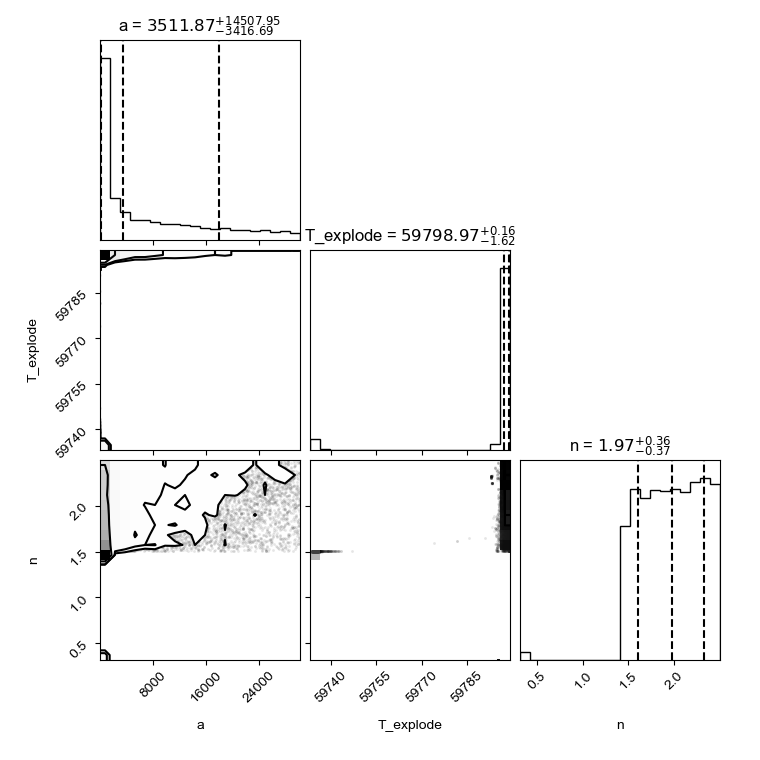
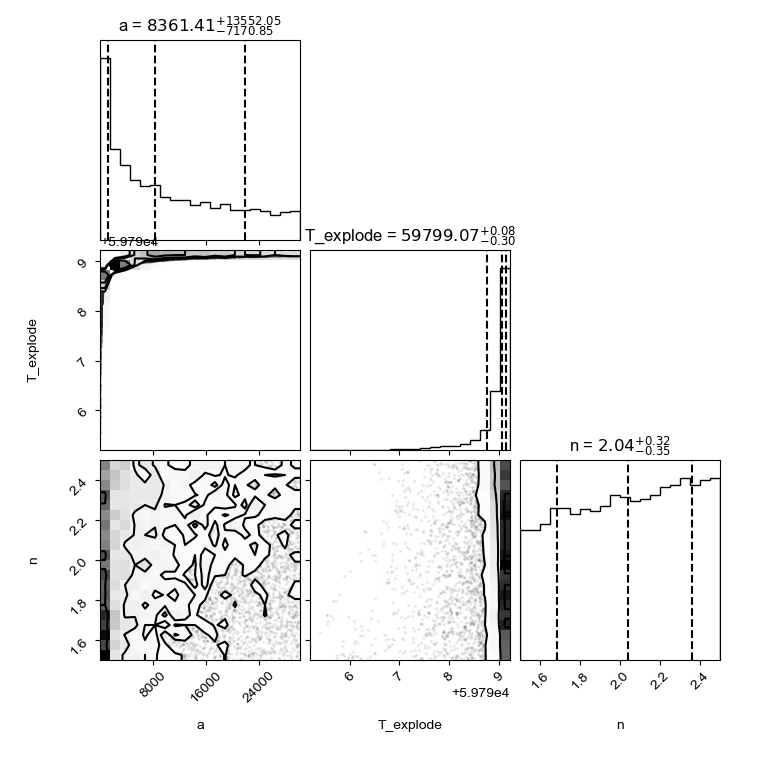
emergency

diff --git a/SNIPER.py b/SNIPER.py
@@ -48,17 +48,17 @@ plt.rcParams["font.family"] = "Arial"
 config_cleaned_lc_directory = "/Users/thomasmoore/Desktop/SNIPER_DEV/ATLAS_TDEs/"
 MJD_minus = 800
 MJD_plus = 800
-nwalkers_bazin = 100
-nsteps_bazin = 10000
+nwalkers_bazin = 200
+nsteps_bazin = int(1e4)
 
-nwalkers_fireball = 100
-nsteps_fireball = 30000
+nwalkers_fireball = 200
+nsteps_fireball = int(1e4)
 
 progress = True
 plot = True
 
-final_run_walker_multiplier = 2
-final_run_step_multiplier = 2
+final_run_walker_multiplier = 1
+final_run_step_multiplier = 1
 
 
 parser = argparse.ArgumentParser()
@@ -106,9 +106,6 @@ if os.path.isdir(output_dir + "/combined_output/") == False:
 
 IAU_list = pd.read_csv(args.file, header=None)
 IAU_list.columns = ["IAU_NAME", "t_guess"]
-
-print(IAU_list.t_guess)
-
 
 global x_global, y_global, y_err_global
 
@@ -597,6 +594,32 @@ def fit_bazin(**kwargs):
         plt.savefig(output_dir + "/scatter/" + object + "_bazin_scatter.png")
         plt.close()
 
+    A = flat_samples[:, 0]
+    B = flat_samples[:, 1]
+    T_rise = flat_samples[:, 2]
+    T_fall = flat_samples[:, 3]
+    t0 = flat_samples[:, 4]
+
+    t_max_samples = baz_tmax(t0, T_rise, T_fall)
+    flux_max_samples = bazin(t_max_samples, A, B, T_rise, T_fall, t0)
+
+    time_max_mcmc = np.nanmean(np.array(t_max_samples))
+    time_max_mcmc_err = np.nanstd(np.array(t_max_samples))
+
+    best_params = np.zeros(ndim)
+    lower_quartile = np.zeros(ndim)
+    upper_quartile = np.zeros(ndim)
+
+    for i in range(ndim):
+        best_params[i] = np.percentile(flat_samples[:, i], [50])
+        lower_quartile[i] = np.percentile(flat_samples[:, i], [16])
+        upper_quartile[i] = np.percentile(flat_samples[:, i], [84])
+
+    A, B, T_rise, T_fall, t0 = best_params
+    A_upper, B_upper, T_rise_upper, T_fall_upper, t0_upper = upper_quartile
+    A_lower, B_lower, T_rise_lower, T_fall_lower, t0_lower = lower_quartile
+
+    if plot == True:
         # overplotting on graph
         plt.figure(dpi=300)
         inds = np.random.randint(len(flat_samples), size=100)
@@ -617,33 +640,7 @@ def fit_bazin(**kwargs):
         )
 
         plt.ylim(min(y_global) * 0.9, np.max(y_global) * 1.1)
-        A = flat_samples[:, 0]
-        B = flat_samples[:, 1]
-        T_rise = flat_samples[:, 2]
-        T_fall = flat_samples[:, 3]
-        t0 = flat_samples[:, 4]
 
-        t_max_samples = baz_tmax(t0, T_rise, T_fall)
-        flux_max_samples = bazin(t_max_samples, A, B, T_rise, T_fall, t0)
-        mcmc_flux = np.mean(np.array(flux_max_samples))
-        mcmc_flux_err = np.std(np.array(flux_max_samples))
-
-        time_max_mcmc = np.nanmean(np.array(t_max_samples))
-        time_max_mcmc_err = np.nanstd(np.array(t_max_samples))
-
-        best_params = np.zeros(ndim)
-        lower_quartile = np.zeros(ndim)
-        upper_quartile = np.zeros(ndim)
-
-        for i in range(ndim):
-            best_params[i] = np.percentile(flat_samples[:, i], [50])
-            lower_quartile[i] = np.percentile(flat_samples[:, i], [16])
-            upper_quartile[i] = np.percentile(flat_samples[:, i], [84])
-
-        A, B, T_rise, T_fall, t0 = best_params
-        A_upper, B_upper, T_rise_upper, T_fall_upper, t0_upper = upper_quartile
-        A_lower, B_lower, T_rise_lower, T_fall_lower, t0_lower = lower_quartile
-        print(f"t max = {time_max_mcmc}")
         plt.ylabel(r" Flux Density [$\rm \mu Jy$]")
         plt.xlabel(r"time [mjd]")
         plt.legend(frameon=False)
@@ -657,19 +654,19 @@ def fit_bazin(**kwargs):
         )
         plt.savefig(output_dir + "/overplot/" + object + "_bazin_overplot.png")
 
-        plt.close()
-        print("best params", best_params)
-        gc.collect()
-        return (
-            time_max_mcmc,
-            time_max_mcmc_err,
-            best_params,
-            upper_quartile,
-            lower_quartile,
-            t_max_samples,
-            flux_max_samples,
-            flat_samples,
-        )
+    plt.close()
+    print("best params", best_params)
+    gc.collect()
+    return (
+        time_max_mcmc,
+        time_max_mcmc_err,
+        best_params,
+        upper_quartile,
+        lower_quartile,
+        t_max_samples,
+        flux_max_samples,
+        flat_samples,
+    )
 
 
 def fit_fireball(**kwargs):
@@ -684,8 +681,6 @@ def fit_fireball(**kwargs):
     t_min = np.min(x_global)
     t_max = np.max(x_global)
 
-    # dispersion = np.max( ((abs(np.mean(x) - t_min)), (abs(np.mean(x) - t_max))))
-    dispersion = 50
     ndim = 3
     nwalkers, ndim = int(nwalkers), int(ndim)
     nsteps = int(int(nsteps))
@@ -693,7 +688,7 @@ def fit_fireball(**kwargs):
     #  a, T_exp_pow, n
     pos = np.zeros((nwalkers, ndim))
     pos[:, 0] = float(priors[0]) + 5 * np.random.randn(nwalkers)
-    pos[:, 1] = float(priors[1]) + 1 * np.random.randn(nwalkers)
+    pos[:, 1] = float(priors[1]) + 1000 * np.random.randn(nwalkers)
     pos[:, 2] = float(priors[2]) + 0.5 * np.random.randn(nwalkers)
 
     sampler = emcee.EnsembleSampler(
@@ -833,7 +828,7 @@ for object in tqdm(IAU_list["IAU_NAME"], leave=False):
         df.MJD,
         df.uJy,
     )
-    df.drop(df[df.duJy > 80].index, inplace=True)
+    df.drop(df[df.duJy > 300].index, inplace=True)
     # df = df.dropna()
     x = np.array(df.MJD)
     if math.isnan(t_guess) is True:
@@ -857,17 +852,26 @@ for object in tqdm(IAU_list["IAU_NAME"], leave=False):
 
     # combined output plot
     fig, ax = plt.subplots(dpi=300)
-    ax.errorbar(x, y, yerr, color="k", linestyle="")
+    ax.errorbar(
+        x,
+        y,
+        yerr,
+        color="k",
+        linestyle="",
+        fmt=".",
+    )
 
     def_global(x, y, yerr)
 
     bazin_results = fit_bazin(
         progress=progress,
-        plot=plot,
+        plot=False,
         object=object,
         nwalkers=nwalkers_bazin,
         nsteps=nsteps_bazin,
     )
+
+    print(bazin_results)
     bazin_results = fit_bazin(
         priors=bazin_results[2],
         progress=progress,
@@ -911,7 +915,6 @@ for object in tqdm(IAU_list["IAU_NAME"], leave=False):
     ax.set_ylabel(r" Flux Density [$\rm \mu Jy$]")
     ax.set_xlabel(r"time [mjd]")
 
-    ax.legend()
     ax.set_xlim(t_min_plot - 50, t_max_plot + 50)
     ax.set_ylim(-10, 1.2 * baz_max)
 
@@ -935,9 +938,9 @@ for object in tqdm(IAU_list["IAU_NAME"], leave=False):
     first_guess = np.nanmean(bazin_results[0]) - 20
 
     fireball_results = fit_fireball(
-        priors=[np.max(y), first_guess, 2],
+        priors=[0.25 * np.max(y), first_guess, 2],
         progress=progress,
-        plot=plot,
+        plot=False,
         object=object,
         nwalkers=nwalkers_fireball,
         nsteps=nsteps_fireball,
@@ -974,6 +977,10 @@ for object in tqdm(IAU_list["IAU_NAME"], leave=False):
     mean_flux = np.nanmean(bazin_results[4])
     std_flux = np.nanstd(bazin_results[4])
 
+    ax.vlines(t_explode, -100, 1.5 * baz_max)
+    ax.vlines(t_explode, -100, 1.5 * baz_max)
+    ax.title(object)
+    ax.legend()
     fig.savefig(output_dir + "/combined_output/" + object + ".png")
     plt.close()
 
@@ -1010,17 +1017,6 @@ for object in tqdm(IAU_list["IAU_NAME"], leave=False):
     SNIPER_OUTPUT = SNIPER_OUTPUT.append(results_dict, ignore_index=True)
     print(f"{object} parameters")
     print("risetime ", risetime)
-    print("T_rise", T_rise)
-    print("T_rise_lower", T_rise_lower)
-    print("T_rise_upper", T_rise_upper)
-    print("T_fall", T_fall)
-    print("T_fall_lower", T_fall_lower)
-    print("T_fall_upper", T_fall_upper)
-    print("T_explode", T_explode)
-    print("T_explode_lower", T_explode_lower)
-    print("T_explode_upper", T_explode_upper)
-    print("T_max", T_max)
-    print("T_max_err", T_max_err)
 
     from IPython.display import display, Math
 
